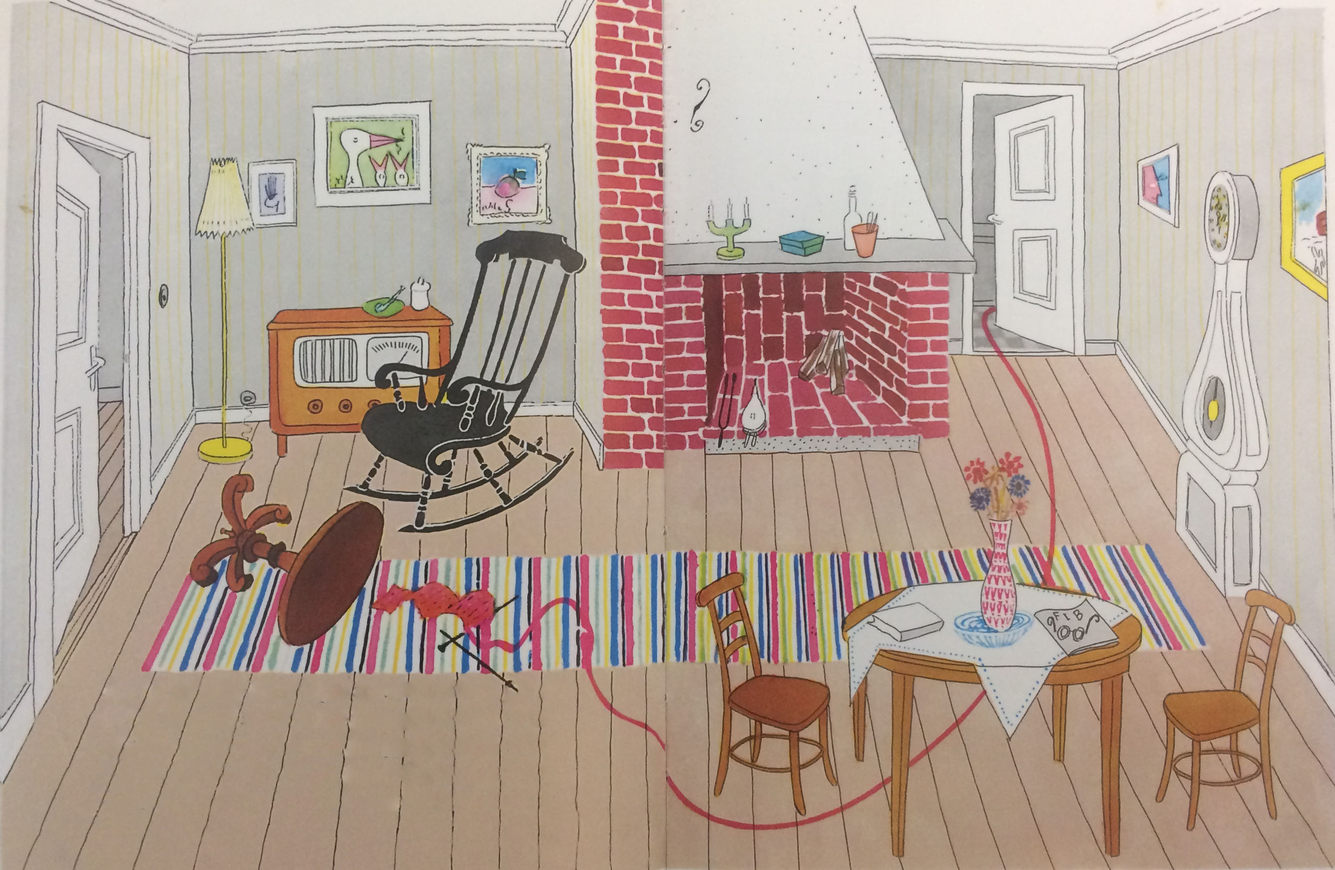
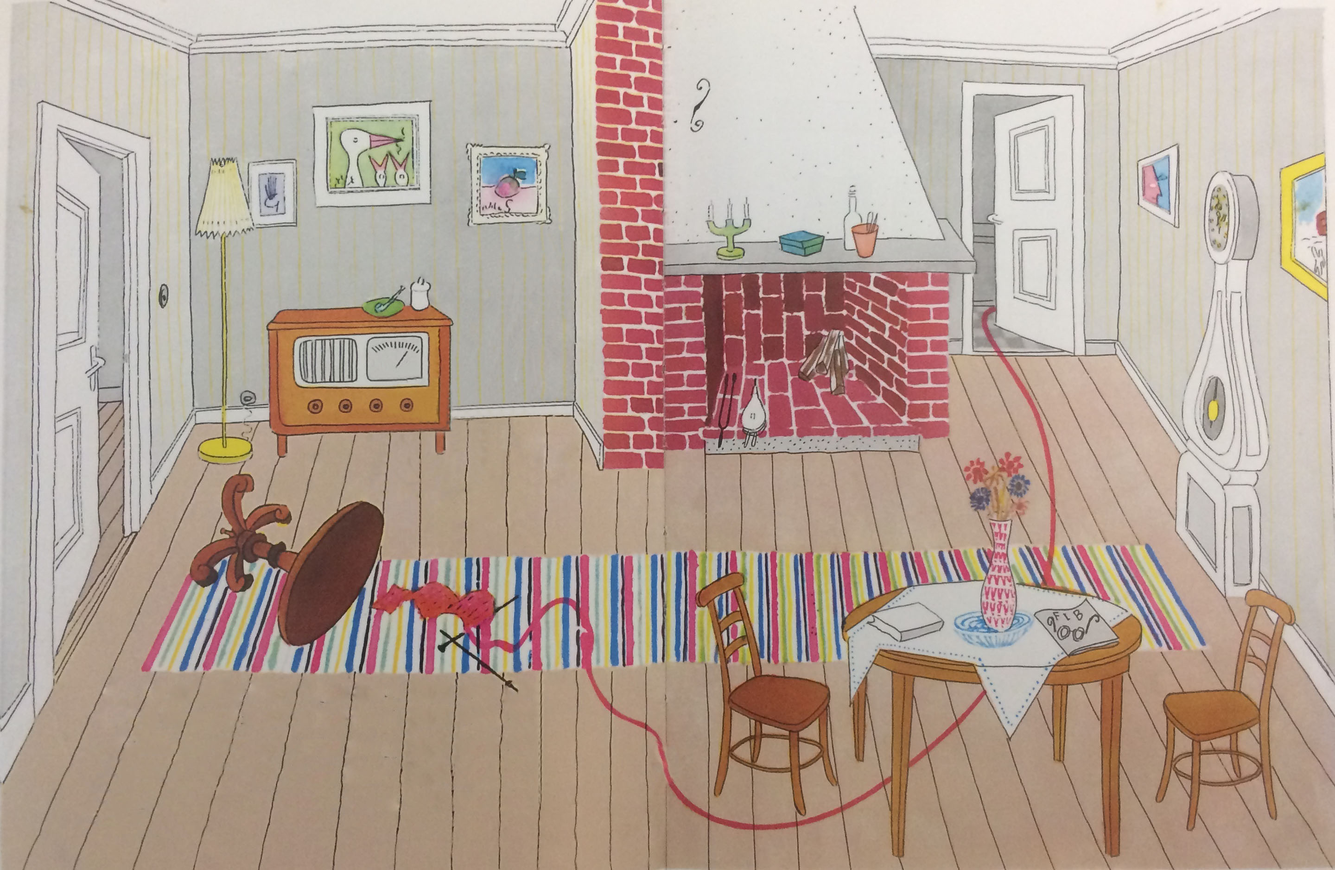
add rocking rockingchair

Changed region(s): [[0.25, 0.2471, 0.4375, 0.6177]]

diff --git a/style.css b/style.css
@@ -3,10 +3,37 @@
   margin: 0;
   padding: 0;
 }
+div.page{
+  position: relative;
+}
 div.page img{
+  z-index: 1;
   display: block; /*Removes white border between images*/
   width: 100%;
 }
 div.page#coverpage{
   background-color: #de4243;
+}
+
+
+
+/*Page2 livingroom*/
+div > #gungstol{ /*Positioning/Animation*/
+  display: inline;
+  z-index: 2;
+  width: 17%;
+  position: absolute;
+  left: 26%;
+  top: 27%;
+
+  animation-name: rocking;
+  animation-duration: 3s;
+  animation-timing-function: ease-in-out;
+  animation-iteration-count: infinite;
+  transform-origin: 48% 100%; /*Set fixed position on the bottom for the rotate*/
+  animation-direction: alternate;
+}
+@keyframes rocking{ /*Animation*/
+  from {transform: rotate(-2deg);}
+  to {transform: rotate(9deg);}
 }

diff --git a/index.html b/index.html
@@ -20,6 +20,7 @@
     </div>
 
     <div id="page2" class="page">
+      <img src="img/gungstol.png" id="gungstol">
       <img src="img/3.jpg">
     </div>
 
